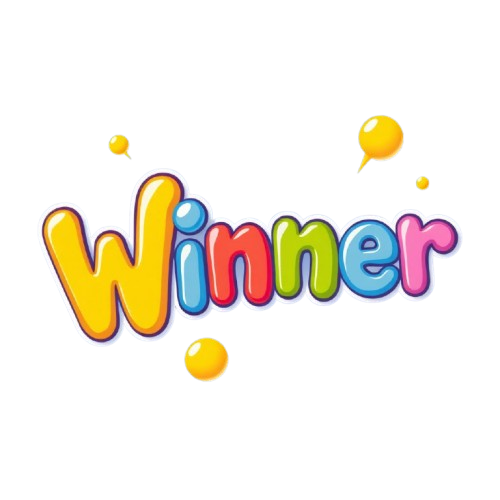
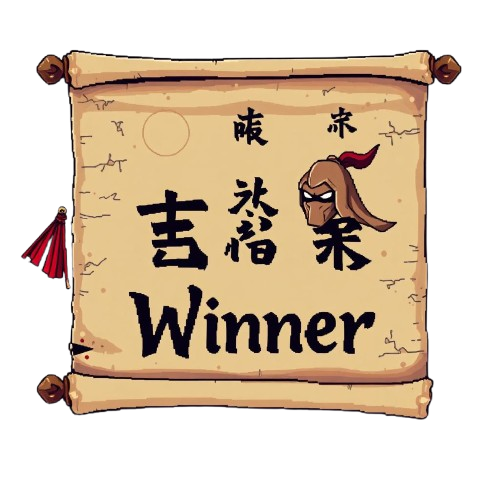
player stats screen

diff --git a/PythonGame.py b/PythonGame.py
@@ -8,7 +8,7 @@ from utils import Utils
 from utils import Animations
 from tilemap import Tilemap
 from clouds import Clouds
-from Menu import Menu, Options, CommandOption,Win
+from Menu import Menu, Options, CommandOption,Win, PlayerStats
 
 
 
@@ -19,35 +19,46 @@ class Game:
     tile_size = 16
     player_size = (12, 18)
     bullet_size = (12, 12)
+    player_stats = (60, 30)
 
     xIncx = {
         "Easy" : 0,
         "Medium" : 1,
-        "Hard" : 1.5
+        "Hard" : 0.3,
+        "Impossible": 1.5
     }
 
     bullet_speed = {
         "Easy" : 0.7,
         "Medium" : 1,
-        "Hard" : 1
+        "Hard" : 1,
+        "Impossible": 1.5
     }
 
     turret_speed = {
         "Easy" : 200,
         "Medium" : 200,
-        "Hard" : 200
+        "Hard" : 200,
+        "Impossible": 400
     }
     
     level_map = {
         "Easy" : "easy.json",
         "Medium" : "easy.json",
-        "Hard" : "hard.json"
+        "Hard" : "hard.json",
+        "Impossible": "hard.json"
     }
 
     players_num = {
         "1 Player" : 1,
         "2 Players" : 2,
         "3 Players" : 3
+    }
+
+    player_screen_pos = {
+        1 : (0, 0),
+        2 : (Resolution[0]/3 - player_stats[0]/3, 0),
+        3 : (Resolution[0]/3 - player_stats[0]/3, Resolution[1]/3 - player_stats[1]/3)
     }
 
     def __init__(self):
@@ -69,6 +80,7 @@ class Game:
         self.config = {}
         self.winner = False
         self.players = {}
+        self.player_screen = {}
         self.objects = []
         self.draw_hitbox = False
         
@@ -94,14 +106,17 @@ class Game:
             "scroll/die" : Animations(Utils.load_images("entities/scroll/die",(Game.tile_size, Game.tile_size)), loop=False),
             "Titlescreen" : Animations(Utils.load_images("Titlescreen", size = (250, 250))),
             "Winscreen" : Animations(Utils.load_images("Winscreen", size = (250, 250))),
+            "Defeatscreen" : Animations(Utils.load_images("Defeatscreen", size = (250, 250))),
+            "playerstats" : Animations(Utils.load_images("PlayerStats", size = self.player_stats))
+
         }
 
         self.isMenuOpen = False
-        self.menu = Menu([Options("Difficulty", ["Easy", "Medium", "Hard"], "Easy"), Options("Players", ["1 Player", "2 Players", "3 Players"], "1 Player"), CommandOption("Restart", self.Save), CommandOption("Quit", self.Quit)], self.assets["Titlescreen"])
+        self.menu = Menu([Options("Difficulty", ["Easy", "Medium", "Hard", "Impossible"], "Easy"), Options("Players", ["1 Player", "2 Players", "3 Players"], "1 Player"), CommandOption("Restart", self.Save), CommandOption("Quit", self.Quit)], self.assets["Titlescreen"])
         self.Save(False)
         self.clouds = Clouds(self.assets["clouds"], count = 60)
         self.winscreen = Win(self, self.assets["Winscreen"])
-
+        self.defeatscreen = Win(self, self.assets["Defeatscreen"])
 
     #Convert image scale (16) to tile scale. World Coordinates
     def scale(self, value):
@@ -111,6 +126,7 @@ class Game:
     def prep_tilemap(self):
 
         delete_keys = []
+        delete_list = []
 
         for i_key in self.tilemap.tilemap.keys():
             i = self.tilemap.tilemap[i_key]
@@ -124,16 +140,36 @@ class Game:
                 self.objects.append(Scroll(self, (i["pos"][0] * self.tile_size, i["pos"][1] * self.tile_size), self.player_size, self.tile_size))
                 delete_keys.append(i_key)
 
+        for i in self.tilemap.offgrid_tiles:
+            if i["type"] == "turret":
+                xdir = 1 if (i["variant"] == 0 or i["variant"] == 5 or i["variant"] == 6) else -1 if (i["variant"] == 1 or i["variant"] == 4 or i["variant"] == 7) else 0 
+                ydir = 1 if (i["variant"] == 3 or i["variant"] == 4 or i["variant"] == 5) else -1 if (i["variant"] == 2 or i["variant"] == 6 or i["variant"] == 7) else 0 
+                self.objects.append(Turret(self, (i["pos"][0], i["pos"][1]), self.player_size, self.tile_size, xdir * Game.bullet_speed[self.config.get("Difficulty", "Easy")], ydir * Game.bullet_speed[self.config.get("Difficulty", "Easy")], Game.turret_speed[self.config.get("Difficulty", "Easy")]))
+                delete_list.append(i)
+
+            if i["type"] == "scroll":
+                self.objects.append(Scroll(self, (i["pos"][0], i["pos"][1]), self.player_size, self.tile_size))
+                delete_list.append(i)    
+
+
         #cleanup
         for key in delete_keys:
             del self.tilemap.tilemap[key]
 
+        for v in delete_list:
+            if v in delete_list:
+                self.tilemap.offgrid_tiles.remove(v)
+            else:
+                print("WHAAHAHAH")
+
 
     def LoadLevel(self):
         self.players = {}
+        self.player_screen = {}
         self.objects = []
         for i in range(1, Game.players_num[self.config.get("Players", "1 Player")] + 1):
             self.players[i] = Player(self, i, (self.scale(200 + 10 * i), self.scale(330)), self.player_size, self.tile_size)
+            self.player_screen[i] = PlayerStats(self, self.assets["playerstats"], self.assets["scroll/die"], self.players[i] )
 
         for p in self.players.values():
             p.set_inputmap(self.p_inputs[p.id])
@@ -144,13 +180,9 @@ class Game:
 
         self.scroll = [0, 0]
         self.minx = 0
-        self.miny = self.scale(500)
+        self.miny = self.scale(550)
         self.finishline = self.scale(1940)
         self.winner = False
-
-        #self.objects.append(Turret(self, (self.scale(200), self.scale(330)), self.player_size, self.tile_size))
-        #self.objects.append(Turret(self, (self.scale(400), self.scale(130)), self.player_size, self.tile_size, 1, 1))
-        #self.objects.append(Turret(self, (self.scale(400), self.scale(300)), self.player_size, self.tile_size, 0, -1))
         
 
         
@@ -218,12 +250,12 @@ class Game:
             self.tilemap.render(self.display, offset = render_scroll)
 
             if (self.isPaused() == False):
-
                 # Get player inputs
-                for p in self.players.values():
-                    if p.dead:
-                        continue
-                    p.get_inputs()
+                if p.dying == False:
+                    for p in self.players.values():
+                        if p.dead:
+                            continue
+                        p.get_inputs()
 
                 # Update Players
                 for p in self.players.values():
@@ -242,23 +274,39 @@ class Game:
                             continue
                         o.checkCollision(p)
                 
-            elif(self.isMenuOpen):
-                self.menu.draw(self.display)
-            elif (self.winner):
-                self.winscreen.draw(self.display)
+            objectset = self.objects
+            for o in objectset:
+                if o.dead:
+                    self.objects.remove(o)
+                    continue
+                o.render(self.display, render_scroll) 
                 
+            #Draw the menu under the players
+            
+            if (self.isPaused()):
+                if (self.isMenuOpen):
+                    self.menu.draw(self.display)
+                elif (self.winner):
+                    if p.winner in self.players:
+                        self.winscreen.draw(self.display)
+                    else:
+                        self.defeatscreen.draw(self.display)
+
+
 
             for p in self.players.values():
                 if p.dead:
                     continue
                 p.render(self.display, render_scroll)
 
-            objectset = self.objects
-            for o in objectset:
-                if o.dead:
-                    self.objects.remove(o)
-                    continue
-                o.render(self.display, render_scroll)
+            
+            for i in self.players.keys():
+                self.player_screen[i].draw(self.display, Game.player_screen_pos[i])
+
+
+
+
+
 
             
         # set an event to close the game

diff --git a/Menu.py b/Menu.py
@@ -78,35 +78,31 @@ class CommandOption(Options):
         if (symbol == pygame.K_RETURN or symbol == pygame.K_SPACE):
             self.command()
 
-class Win:
 
+class Win:
     def __init__ (self, game, img):
         self.fontsize = 50
         self.font = pygame.font.SysFont('segoeuiblack', self.fontsize)
         self.game = game
         self.img = img
 
-    def score(p):
-        return p.score
-
     def draw (self, screen):
         screen.blit(self.img.img(), (175,50))
-        pos = (175,50)
-        wincolor = (255,255,255)
-        deadcolor = (200, 0, 0)
-        for p in sorted(self.game.players.values(), key=Win.score, reverse=True):
-            if (p.winner):
-                screen.blit(self.font.render((p.name()) + ":  " + str(p.score) + " scrolls", True, wincolor), pos)
-                pos = (pos[0], pos[1] + self.fontsize)
-        
-        for p in sorted(self.game.players.values(), key=Win.score, reverse=True):
-            if (not p.winner):
-                screen.blit(self.font.render((p.name()) + ":  " + str(p.score) + " scrolls", True, deadcolor), pos)
-                pos = (pos[0], pos[1] + self.fontsize)
-        
-        
 
+class PlayerStats:
+    def __init__ (self, game, img, icon, player):
+        self.fontsize = 10
+        self.font = pygame.font.SysFont('segoeuiblack', self.fontsize)
+        self.game = game
+        self.img = img
+        self.icon = icon
+        self.player = player
         
+    def draw (self, screen, pos):
+        screen.blit(self.img.img(), pos)
+        self.player.render(screen, offset = (0,0), absolute_pos = (pos[0] + 5, pos[1] + 5))
+        screen.blit(self.icon.img(), (pos[0] + 5 + self.game.player_size[0] + 5, pos[1] + 5))
+        screen.blit(self.font.render(str(self.player.score), True, (0, 0, 0)), (pos[0] + 5 + self.game.player_size[0] + 5 + self.icon.img().get_width() + 5, pos[1] + 5))
 
-    
+
     

diff --git a/entities.py b/entities.py
@@ -92,8 +92,9 @@ class PhyisicsEntity:
         self.animations.update()
 
 
-    def render(self, surf, offset = (0,0)):
-        surf.blit(pygame.transform.flip(self.animations.img(), self.flip, False), (self.pos[0] - offset[0] + self.anim_offset[0], self.pos[1] - offset[1] + self.anim_offset[1]))
+    def render(self, surf, offset = (0,0), absolute_pos = None):
+        pos = self.pos if absolute_pos is None else absolute_pos
+        surf.blit(pygame.transform.flip(self.animations.img(), self.flip, False), (pos[0] - offset[0] + self.anim_offset[0], pos[1] - offset[1] + self.anim_offset[1]))
         if (self.game.draw_hitbox):
             rect = self.rect()  
             rect.topleft = (rect.left - offset[0], rect.top - offset[1])
@@ -167,8 +168,6 @@ class Player(PhyisicsEntity):
         else:
             self.velosity[0] = min(self.velosity[0] + 0.1, 0)
 
-    def render(self,surf,offset=(0,0)):
-        super().render(surf,offset=offset)
 
     def name(self):
         return "Player " + str(self.id)
@@ -291,7 +290,7 @@ class Turret(PhyisicsEntity):
     def __init__(self, game, pos, size, tilesize, xdir = 1, ydir = 0, fire_delay = 100):
         super().__init__(game, "turret", pos, size, tilesize)
         self.fireCountMax = fire_delay
-        self.fireCount = self.fireCountMax
+        self.fireCount = -1
         self.xdir = xdir
         self.ydir = ydir
         self.flip = xdir < 0

diff --git a/Editor.py b/Editor.py
@@ -45,7 +45,7 @@ class Editor:
         self.tilemap = Tilemap(self, tile_size=16)
         
         try:
-            self.tilemap.load("map.json")
+            self.tilemap.load("data/maps/easy.json")
         except FileNotFoundError:
             pass
         #setting my list and the group and varian for the users choosing 
